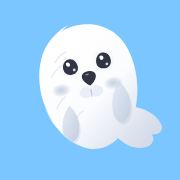
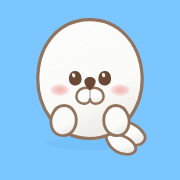
feat(pwa): 아이콘을 스티커 일러스트 화법으로 다시 그린다
레퍼런스로 받은 스티커 그림의 화법을 따른다. 베끼지 않고 같은 화법으로 새로
그렸다. 바뀐 것은 세 가지다.

첫째, 윤곽선이 생겼다. 따뜻한 갈색(#93755F)이고, 몸·지느러미·꼬리·주둥이가
각자 제 선을 가져서 겹친 자리에 선이 보인다. 이 선이 화법의 핵심이라 검정으로
바꾸거나 빼면 통째로 무너진다.

둘째, 팔레트가 무채색에서 벗어난다. 눈·코는 갈색(#6B4A34), 볼터치는 분홍
(#F4A6A4)이다. "캐릭터는 무채색만" 은 이전 판의 제약이었고 여기서 걷어낸다.

셋째, 얼굴을 모았다. 눈 둘과 코가 삼각형으로 붙고 그 아래 주둥이 혹 둘이
온다 — 눈을 벌려 놨더니 곰으로 읽혔다.

종이 질감은 feTurbulence 로 아주 옅게(알파 0.10) 깐다. 올리면 그림이 더러워
보인다. 프리캐시 총량 1.25 -> 1.35 MB (R10 상한 2.5 MB).

Changed region(s): [[0.1944, 0.0833, 0.9167, 0.8889]]

diff --git a/docs/specs/pwa.md b/docs/specs/pwa.md
@@ -22,8 +22,8 @@
 
 - R1. Lighthouse "Installable" 통과: `manifest`(name "Tasky", short_name "Tasky", `display: standalone`, `start_url: /`, `theme_color: #7CC6FF`, `background_color: #FAFAFC`, 아이콘 192/512 + maskable 512), HTTPS, 서비스워커.
 - R1-a. iOS 홈 화면 아이콘: `index.html` 이 `<link rel="apple-touch-icon" href="/icon-apple-touch-180.png">` 를 낸다. iOS 는 manifest 의 아이콘보다 이 링크를 먼저 보고, 없으면 **페이지 스크린샷**을 아이콘으로 쓴다. 파일을 따로 두는 이유는 크기가 아니라 **알파**다 — iOS 는 이 아이콘의 투명 픽셀을 검정으로 합성하므로 모서리가 투명한 192/512 를 가리키면 둥근 모서리 자리에 검은 삼각형이 남는다. 그래서 180×180 **불투명**(배경색 위에 합성) 사본이어야 하고, `scripts/check-dist.mjs` 가 매 빌드 크기·알파·문서 링크·프리캐시 포함을 확인한다.
-- R2. 아이콘은 Tasky 고유: 둥근 사각 배경 `#7CC6FF` + **하프물범 새끼 일러스트**. 캐릭터는 무채색만 쓴다(흰 몸 · 회색 음영·지느러미·볼터치 · 검은 눈코). 몸은 살짝 기울여 머리가 왼쪽 위·꼬리가 오른쪽 아래로 간다. 얼굴은 큰 눈 둘 + 코이고 입선·수염은 없다. 레퍼런스 앱의 마스코트·구름 형태를 쓰지 않는다.
-- R2-a. **도형을 겹쳐 만들지 않는다.** 몸과 꼬리는 베지어 윤곽선 **하나**이고, 부피는 그라데이션(빛 왼쪽 위 · 그늘 오른쪽 아래)이, 질감은 윤곽을 따라 눕는 털결 몇 가닥이 만든다. 원·타원을 겹쳐 놓으면 그림이 아니라 조립한 도형으로 읽힌다. 털을 윤곽 **밖으로** 솟게 그리면 뿔이 되므로 초승달로 눕힌다. 네 파일(192·512·maskable 512·apple-touch 180)은 전부 `scripts/make-icons.mjs` 하나가 만든다 — 손으로 고친 PNG를 섞지 않는다.
+- R2. 아이콘은 Tasky 고유: 둥근 사각 배경 `#7CC6FF` + **하프물범 새끼 일러스트**(오동통한 흰 몸 · 앞지느러미 둘 · 꼬리 두 갈래). 얼굴은 눈 둘과 코가 삼각형으로 **모여** 있고 그 아래 주둥이 혹 둘이 붙는다 — 눈이 벌어지면 곰으로 읽힌다. 입선·수염은 없다. 레퍼런스 앱의 마스코트·구름 형태를 쓰지 않는다.
+- R2-a. **화법**(스티커 일러스트): 팔레트는 흰 몸 + **따뜻한 갈색 윤곽선**(`#93755F`)·갈색 눈코(`#6B4A34`)·분홍 볼터치(`#F4A6A4`)다. 윤곽선을 검정으로 바꾸거나 빼면 화법이 통째로 무너진다. 몸·지느러미·꼬리·주둥이는 각자 제 윤곽선을 갖고(겹친 자리에 선이 보인다), 부피는 그라데이션이, 종이 질감은 아주 옅은 노이즈(알파 0.10 — 올리면 더러워 보인다)가 만든다. 원·타원을 그냥 겹쳐 놓으면 그림이 아니라 조립한 도형으로 읽힌다. 네 파일(192·512·maskable 512·apple-touch 180)은 전부 `scripts/make-icons.mjs` 하나가 만든다 — 손으로 고친 PNG를 섞지 않는다.
 - R3. 오프라인: 앱 셸(HTML·JS·CSS·폰트·아이콘)을 설치 시 프리캐시. 네트워크 없이 새로고침해도 홈이 뜨고 모든 스펙 기능이 동작한다. 데이터 요청이 없으므로 런타임 캐시 규칙은 없음.
 - R4. 업데이트: 새 서비스워커가 `waiting`이 되면 토스트 표시. `[새로고침]` → `skipWaiting` + 리로드. 무시하면 다음 방문 시 자동 적용. 사용자 입력 중(편집 패널 열림)에는 토스트를 미룬다.
 - R5. 서비스워커는 프로덕션 빌드에서만 등록한다. 개발 모드에서는 등록하지 않는다.
